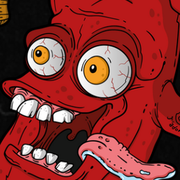
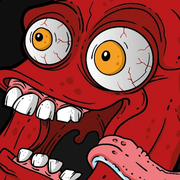
Mascotte en haute qualité et refonte de « Derrière le camion »
- Mascotte HD détourée (WebP transparent), favicon et image de partage refaites
- Pops revient à côté du texte de la famille
- « Derrière le camion » : section dédiée, fiches Shirley et David (photo
  encadrée, nom sur étiquette rouge), affichée dès que la photo de Shirley
  est renseignée dans donnees.js

Claude-Session: https://claude.ai/code/session_01HyNyT8b4Rp2kzeyKVbjvVD

diff --git a/index.html b/index.html
@@ -66,7 +66,7 @@
           </div>
         </div>
         <div class="heros-visuel">
-          <img class="mascotte" src="images/mascotte.png" width="779" height="511" alt="La mascotte de La Fringale : un piment rouge qui tient une pelle à pizza et lève le pouce">
+          <img class="mascotte" src="images/mascotte.webp" width="1400" height="895" alt="La mascotte de La Fringale : un piment rouge qui tient une pelle à pizza et lève le pouce">
           <p class="bulle" id="bulle">Salut ! Moi, je goûte tout avant toi.</p>
           <p class="tampon" aria-label="En famille depuis 2005">Depuis<strong>2005</strong>en famille</p>
         </div>
@@ -105,31 +105,32 @@
           <img class="photo-camion" id="photo-camion" src="" alt="Le camion de La Fringale" hidden>
         </div>
 
-        <div class="equipe" id="equipe">
-          <h3 class="equipe-titre">Derrière le camion</h3>
-          <div class="equipe-grille">
-            <figure class="membre">
-              <div class="membre-cadre">
-                <img id="photo-shirley" src="" alt="Shirley" width="600" height="600" loading="lazy" hidden>
-                <span class="membre-initiale" id="initiale-shirley" aria-hidden="true">S</span>
-                <figcaption><strong>Shirley</strong><span>Aux commandes depuis 2005</span></figcaption>
-              </div>
-            </figure>
-            <figure class="membre">
-              <div class="membre-cadre">
-                <img src="images/david.jpg" alt="David" width="440" height="440" loading="lazy">
-                <figcaption><strong>David</strong><span>Aux commandes depuis 2005</span></figcaption>
-              </div>
-            </figure>
-            <div class="patronne">
-              <img class="sticker" src="images/chienne-lunettes.webp" width="486" height="960" alt="Pops, la cocker rousse de la famille, avec des lunettes de soleil" loading="lazy">
-              <div class="badge">
-                <p class="badge-numero" id="badge-numero">Badge n°001 · La vraie patronne</p>
-                <p class="badge-nom" id="nom-chienne">Pops</p>
-                <p>Elle ne rate aucune tournée. Elle reste dans la cabine et monte la garde.</p>
-              </div>
-            </div>
+        <div class="patronne">
+          <img class="sticker" src="images/chienne-lunettes.webp" width="486" height="960" alt="Pops, la cocker rousse de la famille, avec des lunettes de soleil" loading="lazy">
+          <div class="badge">
+            <p class="badge-numero" id="badge-numero">Badge n°001 · La vraie patronne</p>
+            <p class="badge-nom" id="nom-chienne">Pops</p>
+            <p>Elle ne rate aucune tournée. Elle reste dans la cabine et monte la garde.</p>
           </div>
+        </div>
+      </div>
+    </section>
+
+    <!-- Affichée dès que photoShirley est renseignée dans assets/donnees.js -->
+    <section class="section duo" id="equipe" aria-labelledby="titre-equipe" hidden>
+      <div class="conteneur">
+        <h2 class="titre-section" id="titre-equipe">Derrière le camion</h2>
+        <div class="duo-grille">
+          <article class="fiche">
+            <div class="fiche-photo"><img id="photo-shirley" src="" alt="Shirley" width="600" height="750" loading="lazy"></div>
+            <h3 class="fiche-nom">Shirley</h3>
+            <p class="fiche-role" id="role-shirley">Aux commandes depuis 2005</p>
+          </article>
+          <article class="fiche">
+            <div class="fiche-photo"><img src="images/david.jpg" alt="David" width="440" height="440" loading="lazy"></div>
+            <h3 class="fiche-nom">David</h3>
+            <p class="fiche-role" id="role-david">Aux commandes depuis 2005</p>
+          </article>
         </div>
       </div>
     </section>
@@ -150,7 +151,7 @@
             <strong>10 points = 1 pizza offerte</strong>
             <p class="note-mono" style="margin: 6px 0 0">Collecte les points sur tes boîtes à pizza. À partir de 10, c’est cadeau.</p>
           </div>
-          <img class="mascotte-fidelite" src="images/mascotte.png" width="779" height="511" alt="" loading="lazy">
+          <img class="mascotte-fidelite" src="images/mascotte.webp" width="1400" height="895" alt="" loading="lazy">
         </div>
       </div>
     </section>

diff --git a/assets/style.css b/assets/style.css
@@ -105,7 +105,7 @@ a:hover { color: #fff; }
 .heros-actions p { margin: 0; max-width: 30ch; font-size: 15px; }
 
 .heros-visuel { flex: 1 1 440px; min-width: 0; position: relative; display: flex; justify-content: center; padding-top: 56px; }
-.mascotte { width: 100%; max-width: 600px; height: auto; mix-blend-mode: lighten; }
+.mascotte { width: 100%; max-width: 600px; height: auto; }
 .bulle {
   position: absolute; top: 0; right: 0; max-width: 230px;
   background: var(--creme); color: var(--noir); border: 3px solid var(--noir);
@@ -280,23 +280,23 @@ a:hover { color: #fff; }
   .pied-infos { text-align: left; }
 }
 
-/* ---------- Équipe ---------- */
-.equipe { flex: 1 1 100%; margin-top: 24px; }
-.equipe-titre { margin: 0 0 32px; font-family: var(--titre); font-weight: 400; font-size: 40px; text-transform: uppercase; }
-.equipe-grille { display: grid; grid-template-columns: repeat(auto-fit, minmax(240px, 1fr)); gap: 40px 32px; align-items: end; }
-.membre { margin: 0; }
-.membre-cadre { background: #fff; border: 3px solid var(--noir); padding: 12px 12px 0; box-shadow: 6px 6px 0 var(--noir); max-width: 320px; margin: 0 auto; }
-.membre:nth-child(1) .membre-cadre { transform: rotate(-2deg); }
-.membre:nth-child(2) .membre-cadre { transform: rotate(1.5deg); }
-.membre-cadre img, .membre-initiale { width: 100%; aspect-ratio: 1; object-fit: cover; }
-.membre-initiale { display: flex; align-items: center; justify-content: center; background: var(--rouge); color: var(--creme); font-family: var(--titre); font-size: 140px; line-height: 1; }
-.membre figcaption { padding: 12px 4px 14px; display: flex; flex-direction: column; }
-.membre strong { font-family: var(--titre); font-weight: 400; font-size: 32px; text-transform: uppercase; line-height: 1.1; }
-.membre figcaption span { font-family: var(--mono); font-size: 12px; text-transform: uppercase; }
-.equipe .patronne { flex: none; }
+/* ---------- Derrière le camion ---------- */
+.duo-grille { display: grid; grid-template-columns: repeat(auto-fit, minmax(280px, 1fr)); gap: 48px 64px; margin-top: 36px; }
+.fiche { position: relative; max-width: 460px; }
+.fiche:nth-child(2) { margin-top: 72px; }
+.fiche-photo { border: 3px solid var(--creme); box-shadow: 10px 10px 0 var(--rouge); }
+.fiche-photo img { width: 100%; aspect-ratio: 4 / 5; object-fit: cover; }
+.fiche-nom {
+  position: relative; display: inline-block; margin: -34px 0 0 -14px;
+  background: var(--rouge); color: #fff; padding: 2px 16px 4px;
+  font-family: var(--titre); font-weight: 400; font-size: clamp(44px, 6vw, 64px); line-height: 1.05; text-transform: uppercase;
+  transform: rotate(-3deg);
+}
+.fiche-role { margin: 14px 0 0; font-family: var(--mono); font-size: 14px; text-transform: uppercase; }
+@media (max-width: 700px) { .fiche:nth-child(2) { margin-top: 0; } }
 
 /* ---------- Fidélité : mascotte ---------- */
-.mascotte-fidelite { width: 220px; mix-blend-mode: lighten; margin: -30px -10px -30px 0; }
+.mascotte-fidelite { width: 220px; margin: -30px -10px -30px 0; }
 @media (max-width: 700px) { .mascotte-fidelite { width: 200px; margin: 8px auto -10px; } }
 
 /* ---------- Fenêtre du numéro ---------- */

diff --git a/assets/app.js b/assets/app.js
@@ -209,11 +209,10 @@
     if (nom) nom.textContent = D.nomChienne || 'La vraie patronne';
     var num = $('#badge-numero');
     if (num) num.textContent = D.nomChienne ? 'Badge n°001 · La vraie patronne' : 'Badge n°001 · Sécurité cabine';
-    var sh = $('#photo-shirley');
-    if (sh && D.photoShirley) {
-      sh.src = D.photoShirley; sh.hidden = false;
-      var ini = $('#initiale-shirley'); if (ini) ini.hidden = true;
-    }
+    var sh = $('#photo-shirley'), eq = $('#equipe');
+    if (sh && eq && D.photoShirley) { sh.src = D.photoShirley; eq.hidden = false; }
+    if (D.roleShirley && $('#role-shirley')) $('#role-shirley').textContent = D.roleShirley;
+    if (D.roleDavid && $('#role-david')) $('#role-david').textContent = D.roleDavid;
     var bulle = $('#bulle');
     if (bulle) bulle.textContent = D.nomMascotte ? 'Salut, moi c’est ' + D.nomMascotte + '. Je goûte tout avant toi.' : 'Salut ! Moi, je goûte tout avant toi.';
     var cam = $('#photo-camion');
@@ -328,7 +327,7 @@
   }, { threshold: 0.12, rootMargin: '0px 0px -6% 0px' }) : null;
 
   var EFFETS = [
-    ['monte', '.titre-section, .chapo, .astuce, .etape, .ticket, .famille-texte p, .equipe-titre, .membre, .badge, .fidelite, .avis-carte, .groupe-titre, .moment, .filtres, .pizza, .info'],
+    ['monte', '.titre-section, .chapo, .astuce, .etape, .ticket, .famille-texte p, .fiche, .badge, .fidelite, .avis-carte, .groupe-titre, .moment, .filtres, .pizza, .info'],
     ['colle', '.polaroid, .patronne .sticker, .mascotte-fidelite']
   ];
   function animer() {

diff --git a/assets/donnees.js b/assets/donnees.js
@@ -19,7 +19,9 @@ window.FRINGALE = {
   // Laisser vide '' tant qu'on n'a pas l'info : le site s'adapte.
   nomMascotte: '',         // ex : 'Fringant'
   nomChienne: 'Pops',
-  photoShirley: '',        // ex : 'images/shirley.jpg'
+  photoShirley: '',        // ex : 'images/shirley.jpg' (la section « Derrière le camion » s'affiche alors)
+  roleShirley: '',         // petite phrase sous son nom (sinon « Aux commandes depuis 2005 »)
+  roleDavid: '',
   lienAvisGoogle: '',      // lien de la fiche Google (celui du QR code)
   facebook: '',
   instagram: '',
